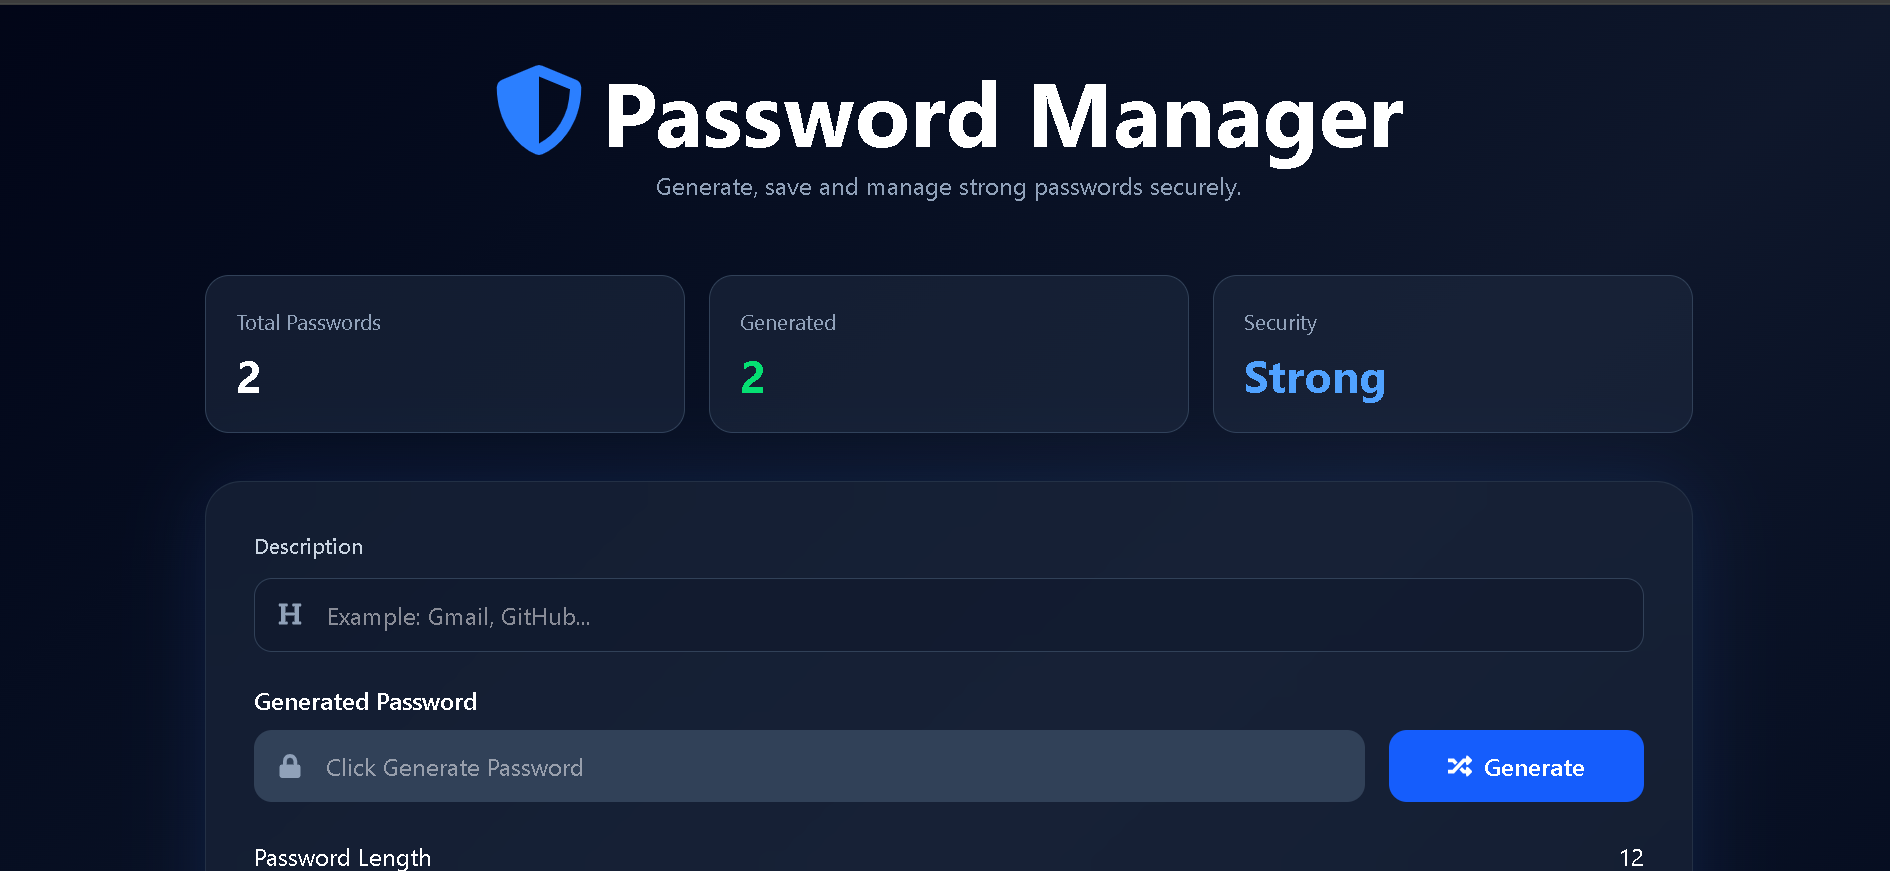
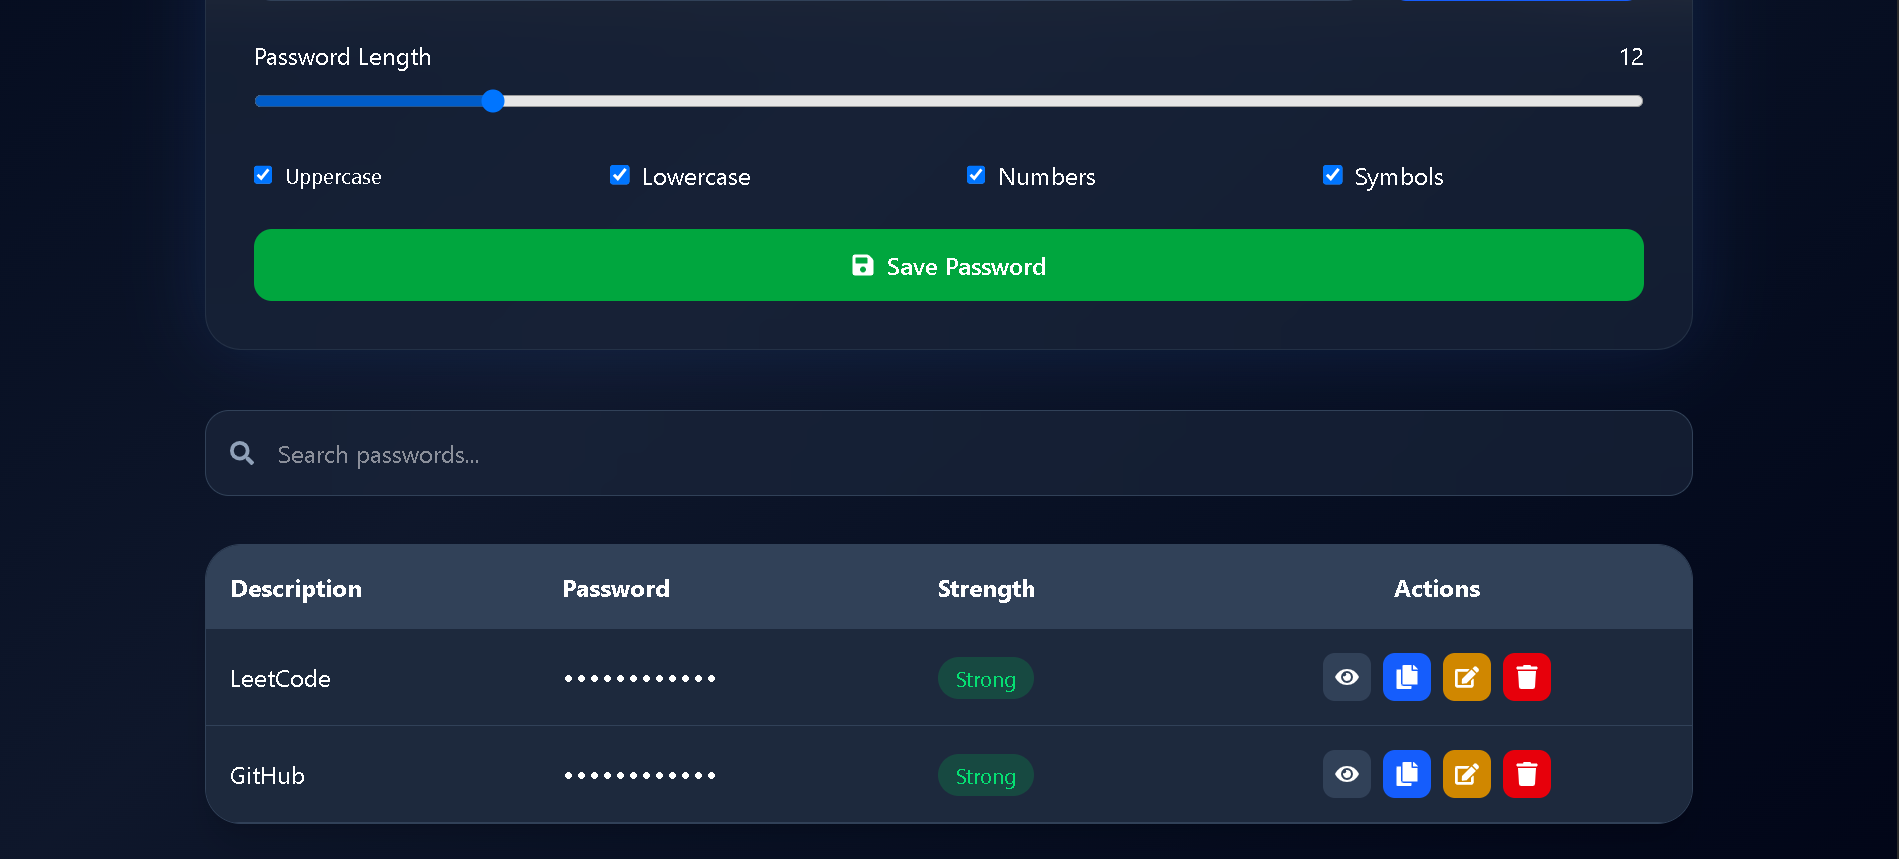
updated screenshot

diff --git a/README.md b/README.md
@@ -123,9 +123,8 @@ All passwords are stored in LocalStorage and remain available after page refresh
 Add your project screenshot:
 
 
-![Password generator](./src/assets/screenshot2.png)
-
 ![Password generator](./src/assets/screenshot1.png)
+![Password generator](./src/assets/screenshot2.png)
 
 
 ---